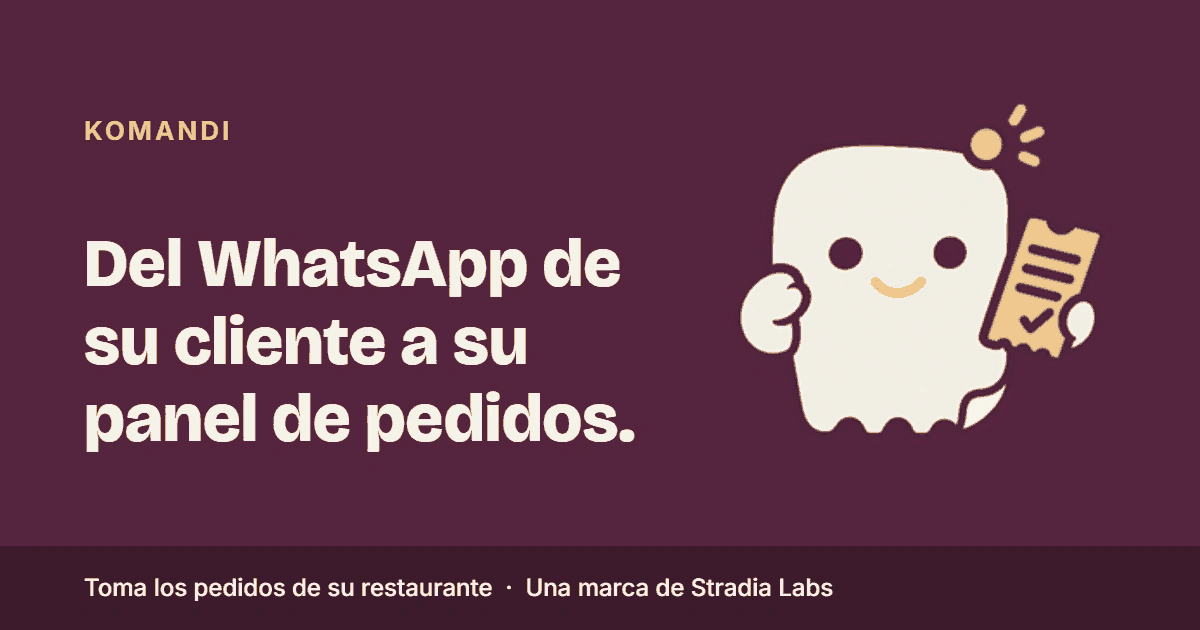
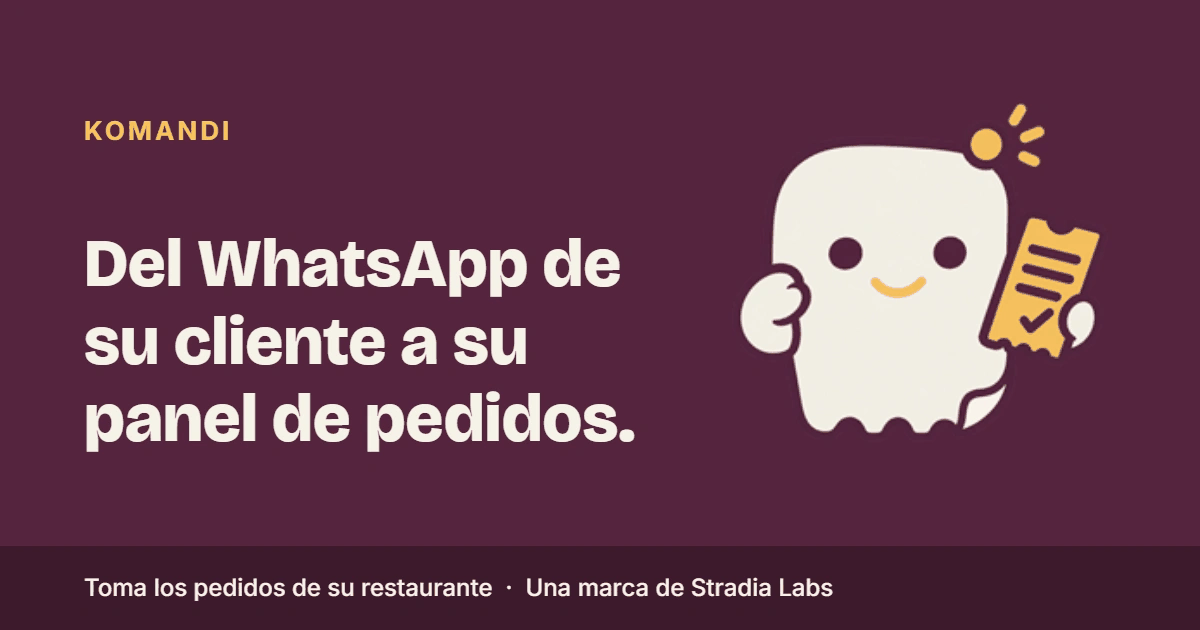
Landings: quitar noindex de Vendi y actualizar Komandi al post-CNR
Vendi (vendi.stradialabs.com): el header X-Robots-Tag "noindex, nofollow"
del nginx.conf era para la URL temporal de Cloud Run. Se elimina para que
Google indexe el dominio final; el <meta robots> del HTML ya estaba
comentado, no se toca el HTML.

Komandi (komandi.stradialabs.com): el index.html publicado era la version
previa al CNR, con <meta robots noindex>. Se reemplaza por la version
actual (CNR resuelto 08-sep-2026, ya indexable) y su og-komandi.png.

diff --git a/sites/komandi/public/index.html b/sites/komandi/public/index.html
@@ -6,27 +6,24 @@
 
 <!-- ============================================================
      KOMANDI · Landing · v2 · 08-sep-2026
-     Producto de Stradia Labs. CONFIDENCIAL — pieza producida, NO publicada.
+     Producto de Stradia Labs. Pieza lista para publicar e indexar (CNR resuelto, 08-sep-2026).
 
      v2: reescrita para CONVERTIR, no para informar. Un trabajo por seccion,
      copy corto, el llamado a la accion siempre a la vista. Lo que se saco
      (mecanica de cobro, mora, formas de pago, detalle de los paneles) NO se
      perdio: es material de la conversacion y del PDF de precios, no de la pagina.
 
-     NOINDEX INTENCIONAL: el nombre Komandi no se comunica hacia afuera hasta
-     tener wordmark nuevo y resuelta la situacion del registro CNR.
+     INDEXABLE desde el 08-sep-2026: el nombre Komandi quedo aceptado en el
+     registro CNR (con K), asi que la pagina ya se publica y se indexa.
      El wordmark va compuesto en tipografia a proposito: los archivos de logo
      todavia traen el nombre viejo dibujado. El isotipo de Mandi si es el oficial.
      ============================================================ -->
 
-<meta name="robots" content="noindex, nofollow, noarchive, nosnippet">
-<meta name="googlebot" content="noindex, nofollow">
 <title>Komandi · Los pedidos de su restaurante entran por WhatsApp a su panel</title>
 <meta name="description" content="Komandi toma los pedidos de su restaurante por WhatsApp, por texto, nota de voz o foto, y le aparecen listos en su panel de pedidos. Sin comisión por pedido.">
 <!-- ============================================================
      Identidad de la página para buscadores y para las vistas previas de
-     enlace (WhatsApp, Facebook, LinkedIn). OJO: las etiquetas og: funcionan
-     AUNQUE la página lleve noindex — el noindex frena a Google, no a WhatsApp.
+     enlace (WhatsApp, Facebook, LinkedIn).
      Si la página termina publicada en otra dirección, hay que cambiar la URL
      en canonical, en og:url y en el bloque de datos estructurados.
      og:image apunta a og-komandi.png, que va JUNTO a este archivo, en la raiz del
@@ -390,10 +387,12 @@ a:focus-visible,summary:focus-visible,.boton:focus-visible{outline:3px solid var
 
   <!-- ============================================================
        BLOQUE DESACTIVADO · MENÚ DEL DÍA POR WHATSAPP · NO PUBLICAR
-       Es un requerimiento sin construir: 01-Producto/03-ESPEC-Menu-del-Dia-por-WhatsApp.md §8
-       («todavía NO se vende, no se menciona a ningún prospecto»). Cuando exista, va aquí
-       una sección de 3 líneas: «Su menú cambia todos los días. Le manda la foto de su
-       pizarra y queda actualizado. Sin entrar a ningún sistema.» + el llamado a la acción.
+       DECISIÓN DE BRIANT, 08-sep-2026: queda solo DOCUMENTADO. Komandi sale al
+       mercado sin esto; no es condición de lanzamiento. La especificación vive en
+       01-Producto/03-ESPEC-Menu-del-Dia-por-WhatsApp.md §8 (todavía NO se vende,
+       no se menciona a ningún prospecto). Cuando se construya, va aquí una sección
+       de 3 líneas: «Su menú cambia todos los días. Le manda la foto de su pizarra
+       y queda actualizado. Sin entrar a ningún sistema.» + el llamado a la acción.
        ============================================================ -->
 
   <!-- ============ SIN LETRA PEQUEÑA ============ -->
